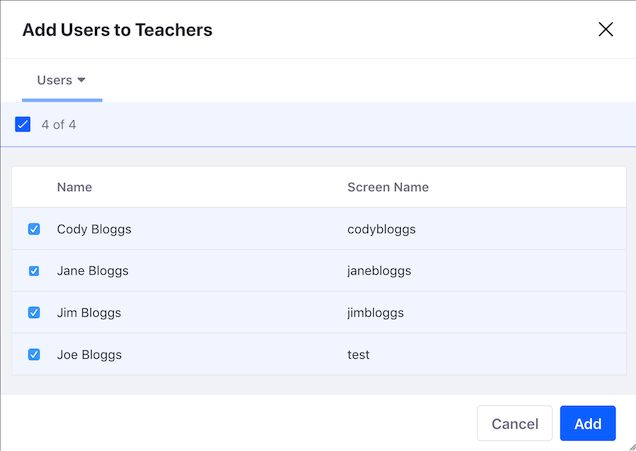
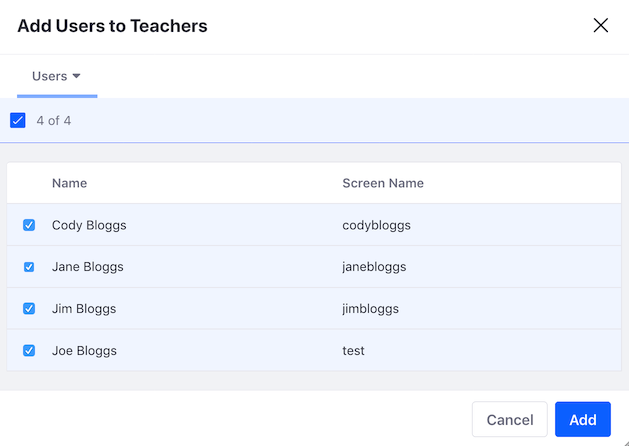
Slight cropping of image to improve image, minor formatting, minor wordsmithing, comments on user group sites

diff --git a/docs/dxp/7.x/en/users-and-permissions/user-groups/user-group-sites.md b/docs/dxp/7.x/en/users-and-permissions/user-groups/user-group-sites.md
@@ -1,18 +1,22 @@
 # User Group Sites
 
-At the bottom of the  [User Group form](./creating-and-managing-user-groups.md) are two fields where you can choose a Site Template to populate two sets of pages: *My Profile* and *My Dashboard*.
+<!-- The main struggle I have with this article is I have no idea what the value proposition is for this functionality - what is the problem or use case this solves for? -->
+
+At the bottom of the [User Group form](./creating-and-managing-user-groups.md) are two fields where you can choose a Site Template to populate two sets of pages: *My Profile* and *My Dashboard*.
 
 ![You can create User Group Sites while creating the User Group.](./user-group-sites/images/01.png)
 
 User Group Sites are specific page sets that populate Users' *My Profile* (public) and *My Dashboard* (private) personal Sites.
 
-Users can have personal Sites that consist of public (Profile) and possibly private (Dashboard) pages. These must be enabled for both [public](https://docs.liferay.com/portal/7.3-latest/propertiesdoc/portal.properties.html#Default%20User%20Public%20Layouts) and [private](https://docs.liferay.com/portal/7.3-latest/propertiesdoc/portal.properties.html#Default%20User%20Private%20Layouts) Sites. 
+Users can have personal Sites that consist of public (Profile) and possibly private (Dashboard) pages. These must be enabled for both [public](https://docs.liferay.com/portal/7.3-latest/propertiesdoc/portal.properties.html#Default%20User%20Public%20Layouts) and [private](https://docs.liferay.com/portal/7.3-latest/propertiesdoc/portal.properties.html#Default%20User%20Private%20Layouts) Sites.
 
-A *User Group Site* isn't really a Site: it's a set of pages that gets added to either the public (profile) or private (dashboard) Sites of Users. A mixed approach can also be used, where both private and public pages are added for the User Group Site. If Users belong to multiple User Groups, all the pages from those User Group Sites are made part of their personal Sites. 
+<!-- The first part of this paragraph feels redundant to information presented a couple paragraphs prior.
+A *User Group Site* isn't really a Site: it's a set of pages that gets added to either the public (profile) or private (dashboard) Sites of Users. A mixed approach can also be used, where both private and public pages are added for the User Group Site. If Users belong to multiple User Groups, all the pages from those User Group Sites are made part of their personal Sites.
+-->
 
 ![Users' Sites are available in the User Personal Menu.](./user-group-sites/images/02.png)
 
-You can create User Group Sites while [creating the User Group](./creating-and-managing-user-groups.md) by selecting [Site Templates](../../site-building/building-sites/building-sites-with-site-templates.md) from the *My Profile* and *My Dashboard* selector menus. You can also create a User Group Site later, either manually or via a Site Template. 
+You can create User Group Sites while [creating the User Group](./creating-and-managing-user-groups.md) by selecting [Site Templates](../../site-building/building-sites/building-sites-with-site-templates.md) from the *My Profile* and *My Dashboard* selector menus. You can also create a User Group Site later, either manually or via a Site Template.
 
 ## Creating User Group Sites From Site Templates
 
@@ -26,13 +30,13 @@ To create a User Group Site from a [Site Template](../../site-building/building-
 
 1. Give Users private pages by selecting a Site Template from the *My Dashboard* menu.
 
-1. Click *Save*. 
+1. Click *Save*.
 
-Now, when one of the group's Users navigates to their *My Profile* or *My Dashboard* Sites, the content of those Sites reflect the Site Template(s) you selected. 
+Now, when one of the group's Users navigates to their *My Profile* or *My Dashboard* Sites, the content of those Sites reflect the Site Template(s) you selected.
 
-User Group Site pages function similarly to regular Site Template pages, with an important exception: User Group Site pages aren't copied for each User. They're shown dynamically along with any custom pages that Users may have on their personal Site. For this reason, Users can't modify pages inherited from the User Group. If needed, the User Group administrator can define certain areas of a page as customizable, like with regular Sites, and then Users can add and configure widgets in the specified area of the page. 
+User Group Site pages function similarly to regular Site Template pages, with an important exception: User Group Site pages aren't copied for each User. They're shown dynamically along with any custom pages that Users may have on their personal Site. For this reason, Users can't modify pages inherited from the User Group. If needed, the User Group administrator can define certain areas of a page as customizable, like with regular Sites, and then Users can add and configure widgets in the specified area of the page.
 
-With this flexibility, you can achieve almost any desired configuration for a User's personal Site without having to modify it directly. When Users are assigned to a User Group, they'll immediately have access to the User Group's Site pages from their personal Sites. 
+This allows great flexibility in configuring a User's personal Site without having to modify it directly. When Users are assigned to a User Group, they'll immediately have access to the User Group's Site pages from their personal Sites.
 
 ```note::
    Site Templates have an option that propagates changes made to the Site Template. If you use a Site Template with this option enabled, the User Group Sites update automatically when that template changes. If you disable this option but enable it again later, the template's pages are copied to the Users' Sites, overwriting any changes they may have made.
@@ -48,25 +52,26 @@ Instead of basing User Group Sites on a Site Template, you can create them manua
 
     ![The controls for adding User Group Sites manually are the same as for creating pages.](./user-group-sites/images/03.png)
 
-1. Create the public and/or private pages that you want to use for the Users' *My Profile* and/or *My Dashboard* Sites. Public pages you create here become pages on users' *My Profile* Site, while private pages become pages on users' *My Dashboard* Site. 
+1. Create the public and/or private pages that you want to use for the Users' *My Profile* and/or *My Dashboard* Sites. Public pages you create here become pages on users' *My Profile* Site, while private pages become pages on users' *My Dashboard* Site.
 
-When you return to User Groups in the Control Panel, you can access a User Group's public and/or private pages via these links in the User Group's *Actions* button (![Actions](../../images/icon-actions.png)): 
+When you return to User Groups in the Control Panel, you can access a User Group's public and/or private pages via these links in the User Group's *Actions* button (![Actions](../../images/icon-actions.png)):
 
-**Go to Profile Pages:** Opens the User Group's public *My Profile* page(s) in a new browser window. 
+**Go to Profile Pages:** Opens the User Group's public *My Profile* page(s) in a new browser window.
 
-**Go to Dashboard Pages:** Opens the User Group's private *My Dashboard* page(s) in a new browser window. 
+**Go to Dashboard Pages:** Opens the User Group's private *My Dashboard* page(s) in a new browser window.
 
-In the new window, you can add more pages and portlets and configure Site settings. 
+In the new window, you can add more pages and portlets and configure Site settings.
 
 ## Legacy User Group Sites Behavior
 
-There is no impact on performance for inheritance of User Group Site pages, even with millions of users. Versions of Liferay Portal and Liferay DXP prior to 7.0, however, required User Group pages be copied to each User's personal Site. 
+There is no impact on performance for inheritance of User Group Site pages, even with millions of users. Versions of Liferay Portal and Liferay DXP prior to 7.0, however, required User Group pages be copied to each User's personal Site.
 
-If you're on Liferay DXP 7.2 and must keep that behavior, enable it by adding the following line to your `portal-ext.properties` file: 
+If you're on Liferay DXP 7.2 and must keep that behavior, enable it by adding the following line to your `portal-ext.properties` file:
 
-    user.groups.copy.layouts.to.user.personal.site=true
+```
+user.groups.copy.layouts.to.user.personal.site=true
+```
 
 This property was removed in Liferay DXP 7.3.
 
-When this property is set to `true`, the template pages are copied to a User's personal Site once, and then may be modified by the User. This means that if changes are made to the template pages later, they only affect Users added to the User Group after the change is made. Users with administrative privileges over their personal Sites can modify the pages and their content if the *Allow Site Administrators to Modify the Pages Associated with This Site Template* box has been checked for the template. When a User is removed from a User Group, the associated pages are removed from the User's personal Site. If a User is removed from a group and is subsequently added back, the group's template pages are copied to the User's Site a second time. Note that if a User Group's Site is based on a Site Template and an administrator modifies the User Group's Site Template after users have already been added to the group, those changes only take effect if the *Enable propagation of changes from the Site Template* box for the User Group was checked. 
-
+When this property is set to `true`, the template pages are copied to a User's personal Site once, and then may be modified by the User. This means that if changes are made to the template pages later, they only affect Users added to the User Group after the change is made. Users with administrative privileges over their personal Sites can modify the pages and their content if the *Allow Site Administrators to Modify the Pages Associated with This Site Template* box has been checked for the template. When a User is removed from a User Group, the associated pages are removed from the User's personal Site. If a User is removed from a group and is subsequently added back, the group's template pages are copied to the User's Site a second time. Note that if a User Group's Site is based on a Site Template and an administrator modifies the User Group's Site Template after users have already been added to the group, those changes only take effect if the *Enable propagation of changes from the Site Template* box for the User Group was checked.

diff --git a/docs/dxp/7.x/en/users-and-permissions/user-groups/creating-and-managing-user-groups.md b/docs/dxp/7.x/en/users-and-permissions/user-groups/creating-and-managing-user-groups.md
@@ -1,8 +1,10 @@
 # Creating and Managing User Groups
 
-A User Group is a list of Users created for a specific purpose. User Groups can be created across the hierarchical boundaries of [Organizations](../organizations/understanding-organizations.md). For example, an administrator could create a Teachers User Group for adding all members to multiple Sites, assign them all to a [Regular Role](../roles-and-permissions/roles-and-permissions.md), and create a common set of profile pages for all teachers in the User Group. Here you'll learn how to work with User Groups to serve the most common use cases.
+A User Group is a list of Users created for a specific purpose. User Groups can be created across the hierarchical boundaries of [Organizations](../organizations/understanding-organizations.md). For example, an administrator could create a Teachers User Group for adding all members to multiple Sites, assign them all to a [Regular Role](../roles-and-permissions/roles-and-permissions.md), and create a common set of profile pages for all teachers in the User Group.
 
 ![Adding a User Group requires only a small amount of information.](./creating-and-managing-user-groups/images/01.png)
+
+ Here you'll learn how to work with User Groups to serve the most common use cases.
 
 | Use Case                     | Description                                    |
 | ---------------------------- | -----------------------------------------------|
@@ -14,15 +16,15 @@ A User Group is a list of Users created for a specific purpose. User Groups can 
 
 To create a User Group,
 
-1. Open the Menu (![Menu](../../images/icon-menu.png)) and select *Control Panel* &rarr; *Users* &rarr; *Users Groups*. Any existing User Groups appear here in a table. 
+1. Open the Menu (![Menu](../../images/icon-menu.png)) and select *Control Panel* &rarr; *Users* &rarr; *Users Groups*. Any existing User Groups appear here in a table.
 
-1. Click the *Add* button (![Add](../../images/icon-add.png)) to open the *New User Group* form. 
+1. Click the *Add* button (![Add](../../images/icon-add.png)) to open the *New User Group* form.
 
-1. Give your User Group a name and description. 
+1. Give your User Group a name and description.
 
-1. If you want to create My Profile and/or My Dashboard pages for the User Group's members, select a Site Template from the *My Profile* and *My Dashboard* selector menus. 
+1. If you want to create My Profile and/or My Dashboard pages for the User Group's members, select a Site Template from the *My Profile* and *My Dashboard* selector menus.
 
-1. Click *Save*. The new User Group appears in the table. 
+1. Click *Save*. The new User Group appears in the table.
 
 New User Groups don't have any Users until you add them.
 
@@ -30,13 +32,13 @@ New User Groups don't have any Users until you add them.
 
 ## Assigning Members to a User Group
 
-To add existing users to a User Group, 
+To add existing users to a User Group,
 
-1. Open the User Groups application (*Control Panel* &rarr; *Users* &rarr; *Users Groups*). The available User Groups appear. 
+1. Open the User Groups application (*Control Panel* &rarr; *Users* &rarr; *Users Groups*). The available User Groups appear.
 
-1. Click *Actions* (![Actions](../../images/icon-actions.png)) &rarr; *Assign Members* for the User Group. The group's existing users appear in a table. 
+1. Click *Actions* (![Actions](../../images/icon-actions.png)) &rarr; *Assign Members* for the User Group. The group's existing users appear in a table.
 
-1. Click the *Add* button (![Add](../../images/icon-add.png)) to see a list of the Users you can select. 
+1. Click the *Add* button (![Add](../../images/icon-add.png)) to see a list of the Users you can select.
 
 1. Select Users from the list, then click *Add*. This adds the selected Users to the group and shows the list of Users in the group.
 
@@ -44,11 +46,11 @@ To add existing users to a User Group,
 
 ## Configuring User Group Permissions
 
-User Group Users might need to take certain actions, whether across the system or in a specific Site. Regardless of the scope, access is granted by assigning the needed permissions for the action to a Role, and then assigning that Role to the User Group. Once given a properly scoped Role with permissions assigned, the User Group's Users can get to work.
+User Group Users might need to take certain actions, whether across the system or in a specific Site. Regardless of the scope, access is granted by assigning the needed permissions for the action to a Role, and then assigning that Role to the User Group. Once given a Role with permissions assigned, the User Group's Users can get to work.
 
 To give User Groups permissions at the portal-wide scope, you'll need a Regular Role.
 
-1. Create a Regular Role and define its permissions (see the Help Center articles one [Roles and Permissions](https://help.liferay.com/hc/en-us/articles/360028819032-Roles-and-Permissions). 
+1. Create a Regular Role and define its permissions (see [Roles and Permissions](https://help.liferay.com/hc/en-us/articles/360028819032-Roles-and-Permissions) for more information).
 1. Once the Role is created, assign the User Group to it by clicking the title of the Role in *Control Panel* &rarr; *Users* &rarr; *Roles*.
 1. Open the *Assignees* tab.
 1. Open the *User Groups* panel.
@@ -65,30 +67,30 @@ You can view and edit existing User Groups from *Control Panel* &rarr; *Users* &
 
 ![The User Groups interface makes it easy to create, find, and modify User Groups.](./creating-and-managing-user-groups/images/02.png)
 
-Follow these steps to add/remove users to/from a User Group: 
+Follow these steps to add/remove users to/from a User Group:
 
-1. Click the User Group's name or description to see a list of the User Group's current Users. 
+1. Click the User Group's name or description to see a list of the User Group's current Users.
 
-1. To remove a User from the User Group, click the `-` button next to that User. To remove multiple Users at once, check each User's check box and then click the `-` icon in the Management Bar above the User list. 
+1. To remove a User from the User Group, click the `-` button next to that User. To remove multiple Users at once, check each User's check box and then click the `-` icon in the Management Bar above the User list.
 
-1. To add Users to the User Group, click the *Add* button (![Add](../../images/icon-add.png)), select the Users, and click *Add*. 
+1. To add Users to the User Group, click the *Add* button (![Add](../../images/icon-add.png)), select the Users, and click *Add*.
 
 ![The list of Users lets you manage the User Group's membership.](./creating-and-managing-user-groups/images/05.png)
 
-Other management options are available in each User Group's Actions menu (![Actions](../../images/icon-actions.png)): 
+Other management options are available in each User Group's Actions menu (![Actions](../../images/icon-actions.png)):
 
 **Edit:** Modify the User Group's name or description, or choose Site Templates to use for the [User Group's Sites](./user-group-sites.md).
 
-**Permissions:** Assign permissions for viewing and managing the User Group. 
+**Permissions:** Assign permissions for viewing and managing the User Group.
 
-**User Group Pages Permissions:** Assign permissions for managing the User Group's Site pages. 
+**User Group Pages Permissions:** Assign permissions for managing the User Group's Site pages.
 
-**Manage Pages:** Manually manage the User Group's Site pages. See [User Group Sites](./user-group-sites.md#creating-user-group-sites-manually) for details. 
+**Manage Pages:** Manually manage the User Group's Site pages. See [User Group Sites](./user-group-sites.md#creating-user-group-sites-manually) for details.
 
-**Assign Members:** Add/remove Users to/from the User Group (described above). 
+**Assign Members:** Add/remove Users to/from the User Group (described above).
 
-**Delete:** Remove the User Group. Note that you can't delete a User Group that contains Users. You must first remove the Users from the group. 
+**Delete:** Remove the User Group. Note that you can't delete a User Group that contains Users. You must first remove the Users from the group.
 
-If your User Group has public and private Site pages, the options *Go to Profile Pages* and *Go to Dashboard Pages* also appear in your User Group's Actions menu. Clicking one of these links opens that Site in a new browser window. See [User Group Sites](./user-group-sites.md) for details. 
+If your User Group has public and private Site pages, the options *Go to Profile Pages* and *Go to Dashboard Pages* also appear in your User Group's Actions menu. Clicking one of these links opens that Site in a new browser window. See [User Group Sites](./user-group-sites.md) for details.
 
-![The Actions menu for a User Group provides all the functions necessary for managing it.](./creating-and-managing-user-groups/images/06.png) 
+![The Actions menu for a User Group provides all the functions necessary for managing it.](./creating-and-managing-user-groups/images/06.png)

diff --git a/docs/dxp/7.x/en/users-and-permissions/user-groups/managing-site-membership-and-permissions-with-user-groups.md b/docs/dxp/7.x/en/users-and-permissions/user-groups/managing-site-membership-and-permissions-with-user-groups.md
@@ -10,19 +10,19 @@ One of the primary use cases for User Groups is to manage Site membership. When 
 
 Follow these steps to assign a User Group to a Site:
 
-1. Open the Menu (![Menu](../../images/icon-menu.png)), select the Site you want to work in, then open its Site Administration menu. 
+1. Open the Menu (![Menu](../../images/icon-menu.png)), select the Site you want to work in, then open its Site Administration menu.
 
-1. In the Site Administration menu, select *People* &rarr; *Memberships*.  This opens the Site Memberships screen. 
+1. In the Site Administration menu, select *People* &rarr; *Memberships*.  This opens the Site Memberships screen.
 
    ![Select Memberships from the People menu.](./managing-site-membership-and-permissions-with-user-groups/images/01.png)
 
-1. In Memberships, select the *User Groups* tab. This tab displays any User Groups currently assigned to the Site. 
+1. In Memberships, select the *User Groups* tab. This tab displays any User Groups currently assigned to the Site.
 
-1. Click the *Add* button (![Add](../../images/icon-add.png)), select any User Groups you want to assign to the Site, then click *Done*.  The User Groups you selected now appear in the User Groups tab. 
+1. Click the *Add* button (![Add](../../images/icon-add.png)), select any User Groups you want to assign to the Site, then click *Done*.  The User Groups you selected now appear in the User Groups tab.
 
 ## Managing Site Permissions with User Groups
 
-[Creating and Managing User Groups](./creating-and-managing-user-groups.md) describes how to assign a Regular Role to a User Group for Users who must have permissions across the portal. User Groups are often created so the group's Users can act only in one Site. Just as with Regular Roles, it starts by assigning the needed permissions for that action to a Site Role, and then assigning that Role to the User Group.
+[Creating and Managing User Groups](./creating-and-managing-user-groups.md) describes how to assign a Regular Role to a User Group for Users who must have permissions across the portal. User Groups are often created so the group's Users can act only in one Site. Just as with Regular Roles, it starts by assigning the needed permissions for that action to a *Site Role*, and then assigning that Role to the User Group.
 
 To grant Site scoped permissions to Users in a User Group,
 
@@ -33,16 +33,14 @@ To grant Site scoped permissions to Users in a User Group,
 
 To assign an existing Site Role to an existing User Group that's already a member of the Site,
 
-1. Open the Menu (![Menu](../../images/icon-menu.png)), select the Site to work in, then open its Site Administration menu. 
+1. Open the Menu (![Menu](../../images/icon-menu.png)), select the Site to work in, then open its Site Administration menu.
 
 1. In the Site Administration menu, select *People* &rarr; *Memberships*.
 
-1. In Memberships, select the *User Groups* tab to see the User Groups currently assigned to the Site. 
+1. In Memberships, select the *User Groups* tab to see the User Groups currently assigned to the Site.
 
 1. Click the *Actions* button (![Actions](../../images/icon-actions.png)) for the User Group you want to assign to a Role, and select *Assign Roles*.
 
    ![Select Assign Roles for the User Group.](./managing-site-membership-and-permissions-with-user-groups/images/03.png)
 
-1. In the Assign Roles dialog, select the Role from the list and click *Done*. 
-
-Sites and User Groups go together like IT professionals and coffee.
+1. In the Assign Roles dialog, select the Role from the list and click *Done*.
